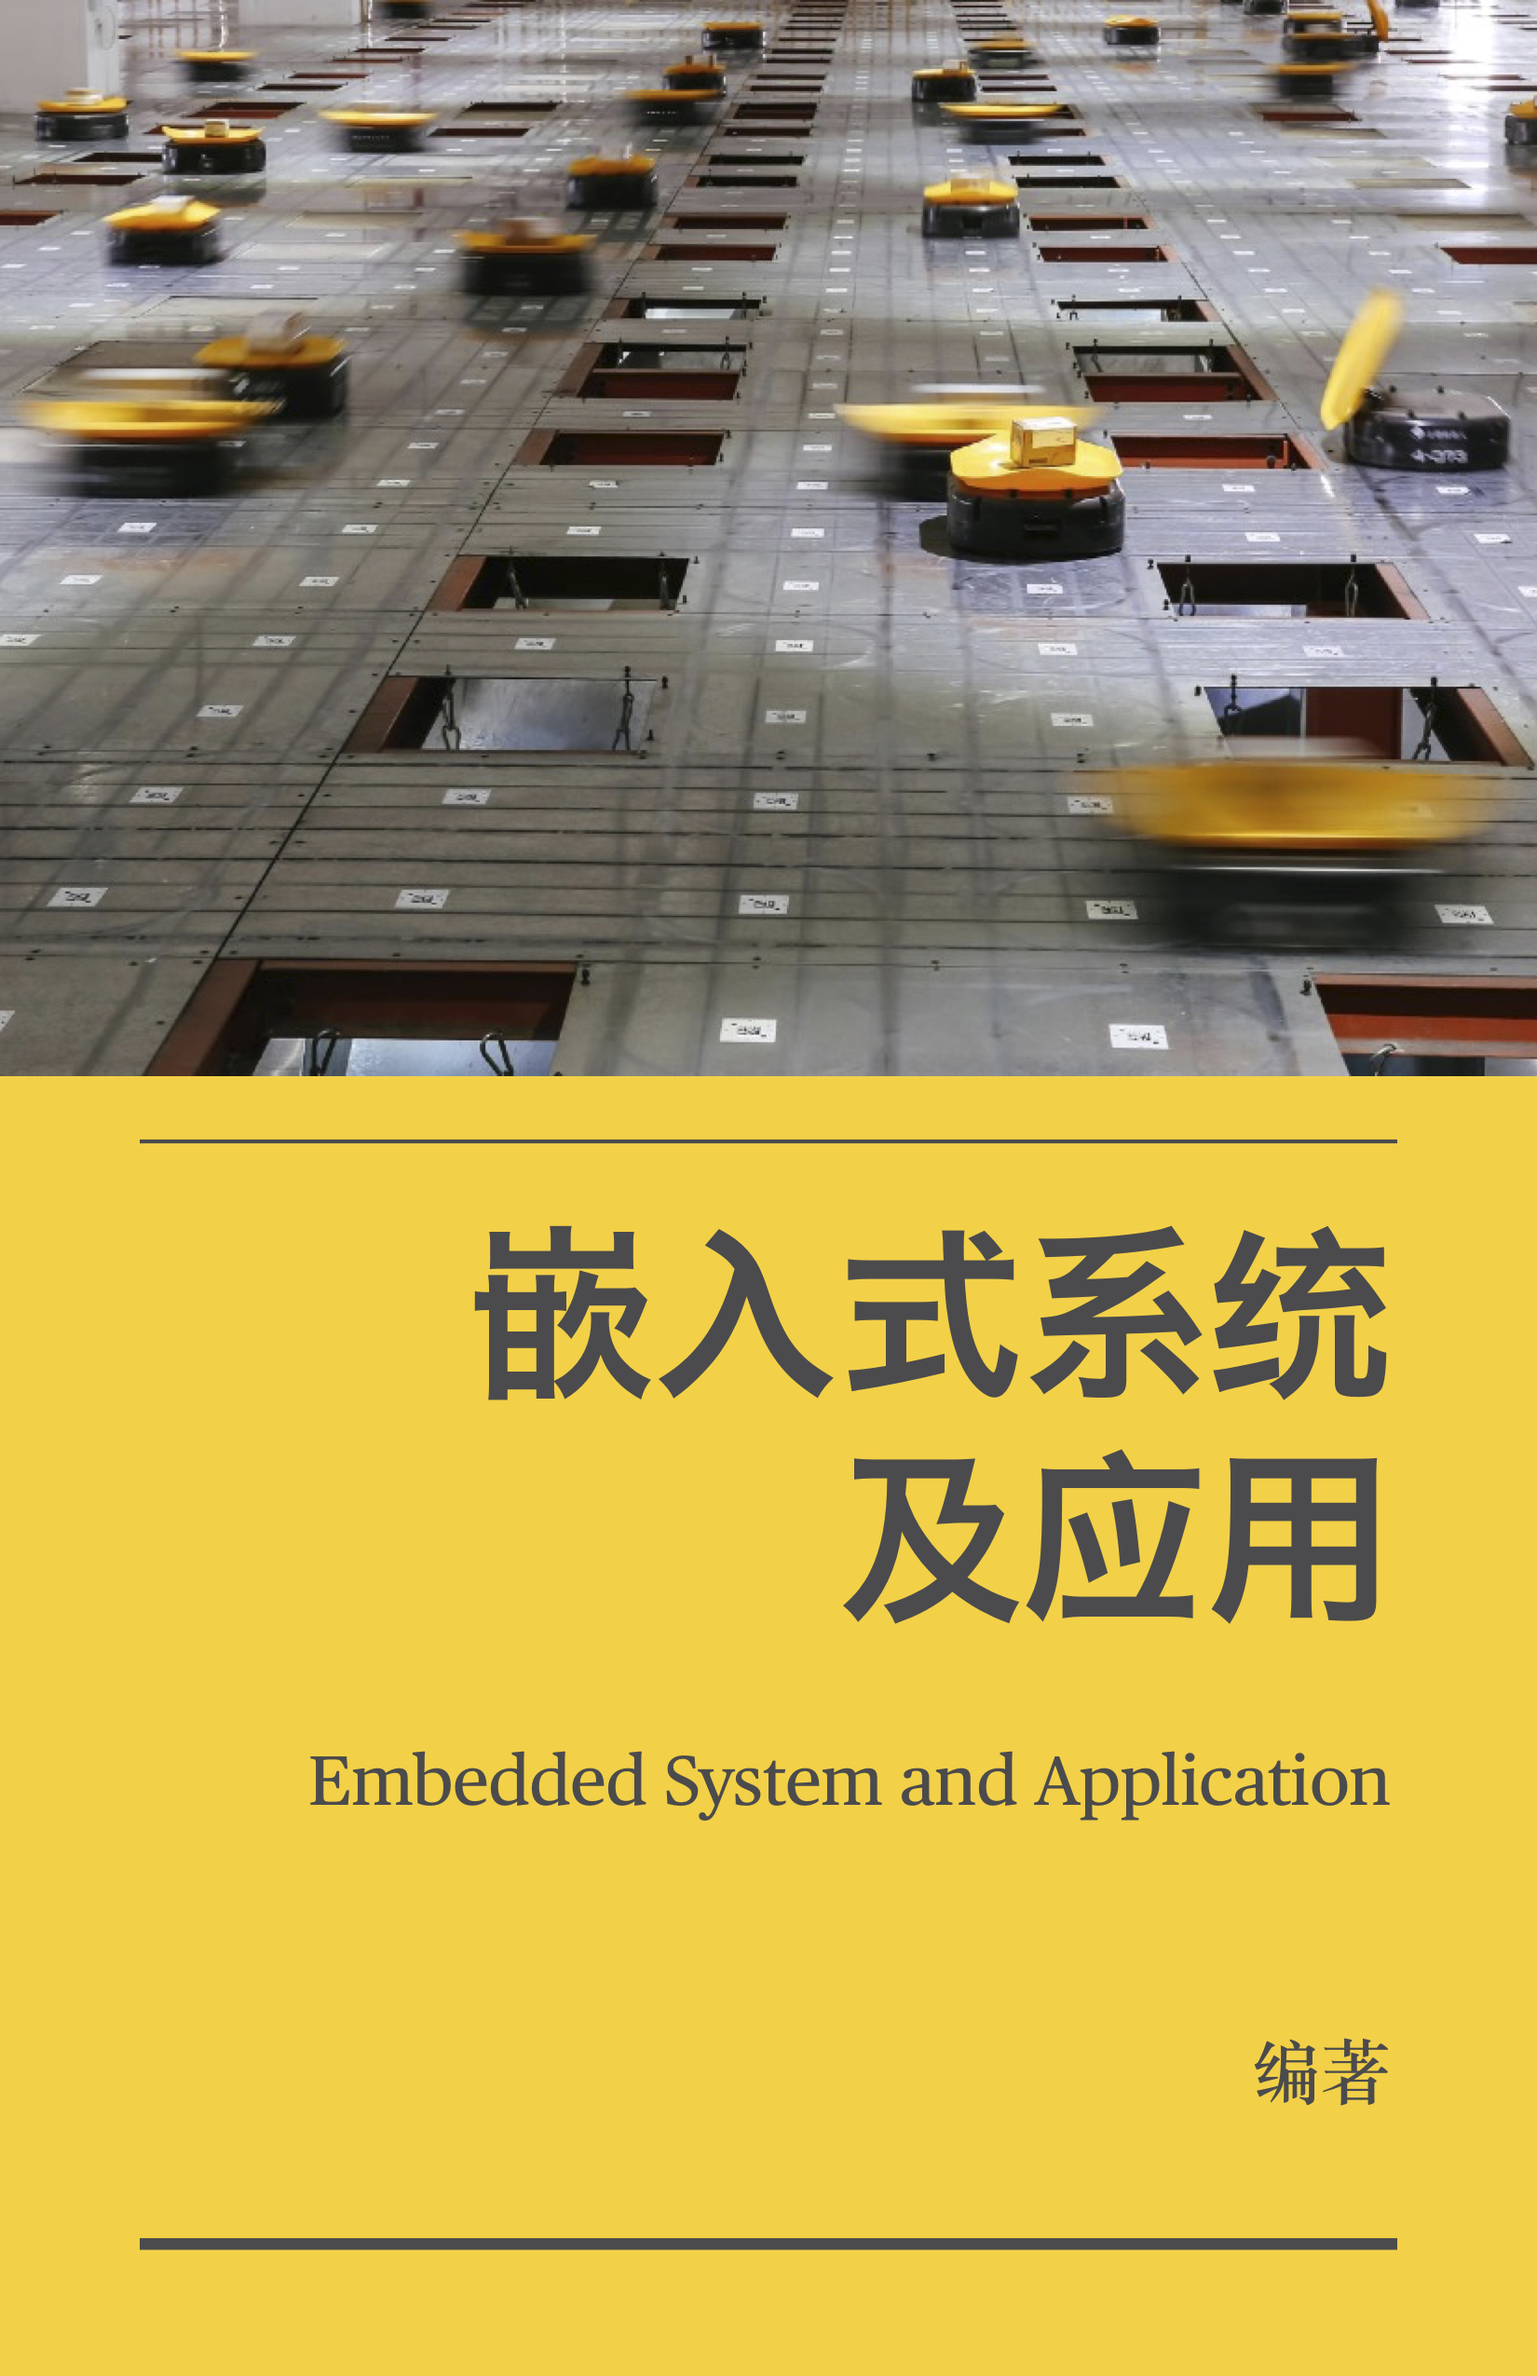
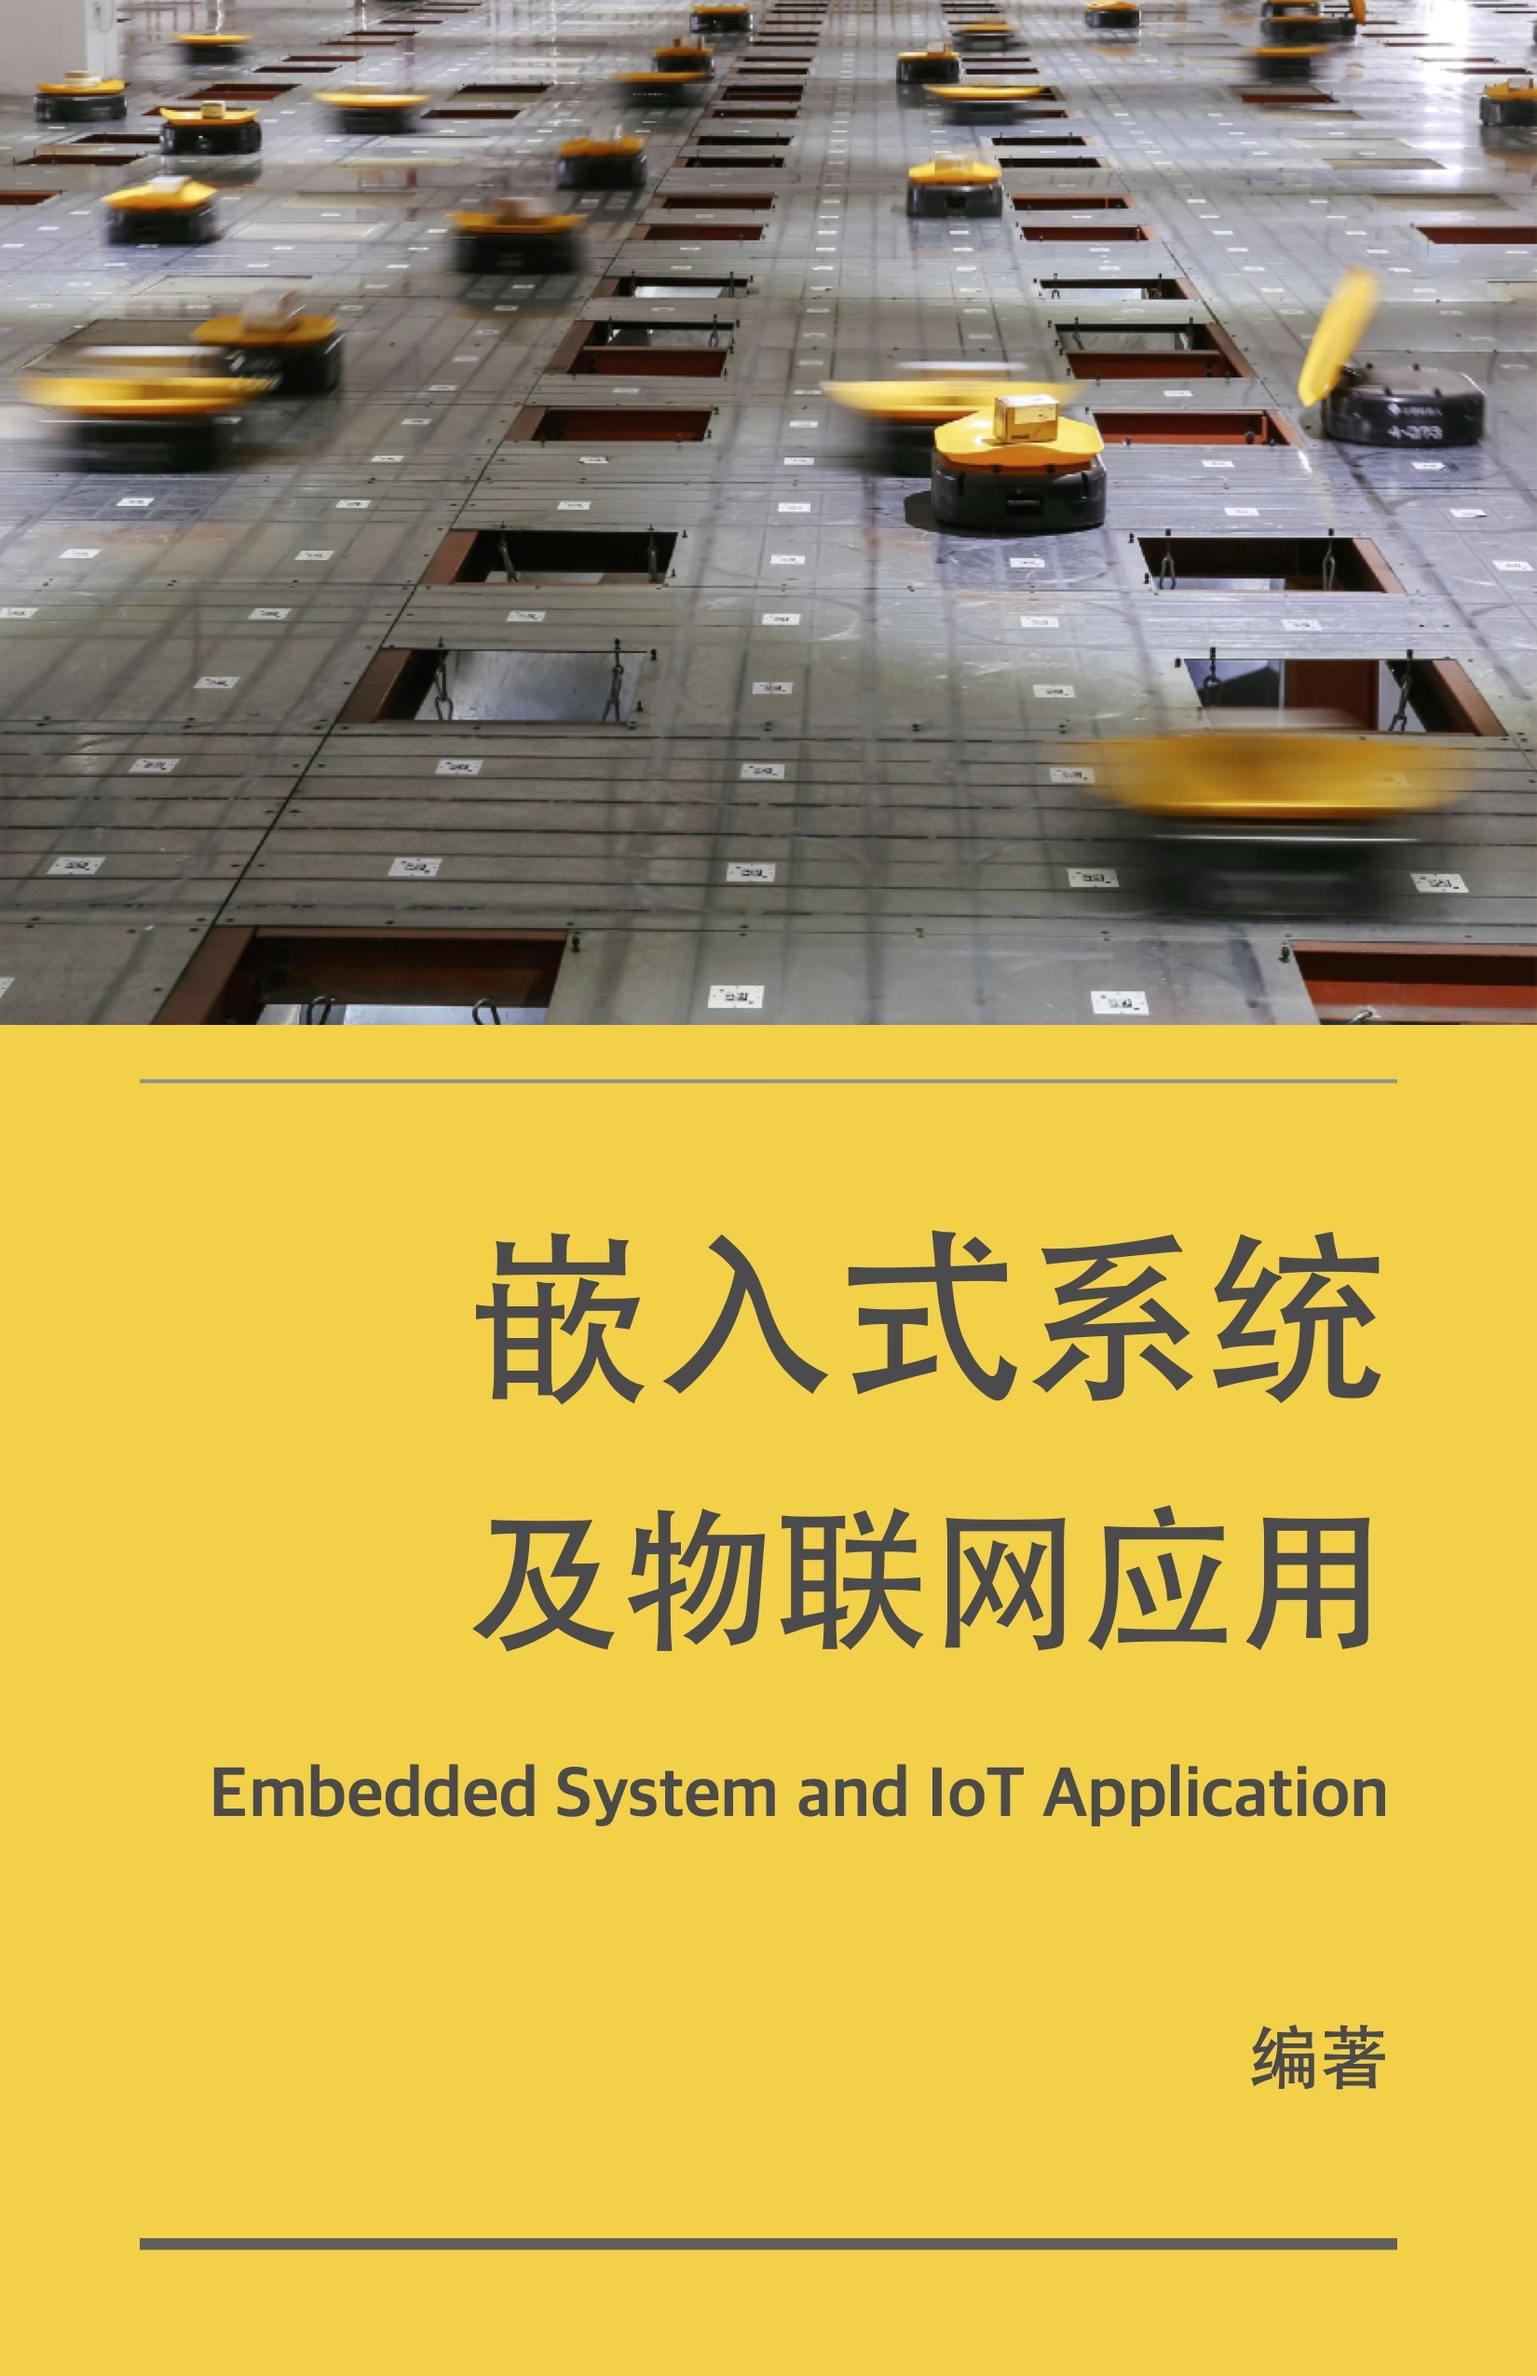
update some

diff --git a/source/index.rst b/source/index.rst
@@ -84,13 +84,13 @@
 .. toctree::
    :maxdepth: 2
 
-   c9_ble/index_c9.rst
+   c9_wln/index_c9.rst
 
 
 .. toctree::
    :maxdepth: 2
 
-   ca_iot_wifi_ethernet/index_c10.rst
+   ca_bbniot/index_c10.rst
 
 --------------------------------------------------
 

diff --git a/source/c9_wln/radio_communication.rst b/source/c9_wln/radio_communication.rst
@@ -1,8 +1,8 @@
 ==============================
-9.3 蓝牙低能耗无线通讯及应用
+9.1 无线电通讯
 ==============================
 
-BLE
+Radio communication
 
 
 

diff --git a/source/c9_wln/bluetooth.rst b/source/c9_wln/bluetooth.rst
@@ -1,8 +1,8 @@
 ==============================
-9.2 无线电通讯
+9.2 BlueTooth(蓝牙)和BLE
 ==============================
 
-Radio communication
+BlueTooth
 
 
 

diff --git a/source/c9_wln/lora.rst b/source/c9_wln/lora.rst
@@ -1,8 +1,10 @@
 ===========================
-10.5 MQTT和物联网
+9.3 LoRa和LoRaWAN
 ===========================
 
-MQTT
+长距离无线通讯
+
+
 
 
 

diff --git a/source/ca_bbniot/iot.rst b/source/ca_bbniot/iot.rst
@@ -1,8 +1,10 @@
 ===========================
-10.4 Ethernet网络
+10.1 IoT(物联网)及相关协议
 ===========================
 
-Ethernet
+IoT
+
+
 
 
 

diff --git a/source/c9_wln/index_c9.rst b/source/c9_wln/index_c9.rst
@@ -18,8 +18,8 @@
    :maxdepth: 1
 
    radio_communication.rst
-   lora.rst
    bluetooth.rst
+   lora.rst
    wifi.rst
    4gnbiot.rst
    summary.rst

diff --git a/source/ca_bbniot/ethernet.rst b/source/ca_bbniot/ethernet.rst
@@ -1,10 +1,8 @@
 ===========================
-10.1 IoT(物联网)
+10.2 Ethernet网络
 ===========================
 
-IoT
-
-
+Ethernet
 
 
 

diff --git a/source/ca_bbniot/mqtt.rst b/source/ca_bbniot/mqtt.rst
@@ -1,5 +1,9 @@
 ===========================
-9.4 本章总结
+10.3 MQTT和物联网
 ===========================
+
+MQTT
+
+
 
 

diff --git a/source/c9_wln/summary.rst b/source/c9_wln/summary.rst
@@ -1,9 +1,5 @@
 ===========================
-10.3 4G和NB-IoT
+9.6 本章总结
 ===========================
-
-4G的
-
-
 
 

diff --git a/source/c9_wln/wifi.rst b/source/c9_wln/wifi.rst
@@ -1,5 +1,5 @@
 ===========================
-10.2 WiFi无线网络
+9.4 WiFi无线网络
 ===========================
 
 WiFi

diff --git a/source/ca_bbniot/summary.rst b/source/ca_bbniot/summary.rst
@@ -1,5 +1,5 @@
 ===========================
-10.6 本章总结
+10.4 本章总结
 ===========================
 
 

diff --git a/source/c9_wln/4gnbiot.rst b/source/c9_wln/4gnbiot.rst
@@ -1,0 +1,9 @@
+===========================
+9.5 4G和NB-IoT
+===========================
+
+4G的
+
+
+
+
